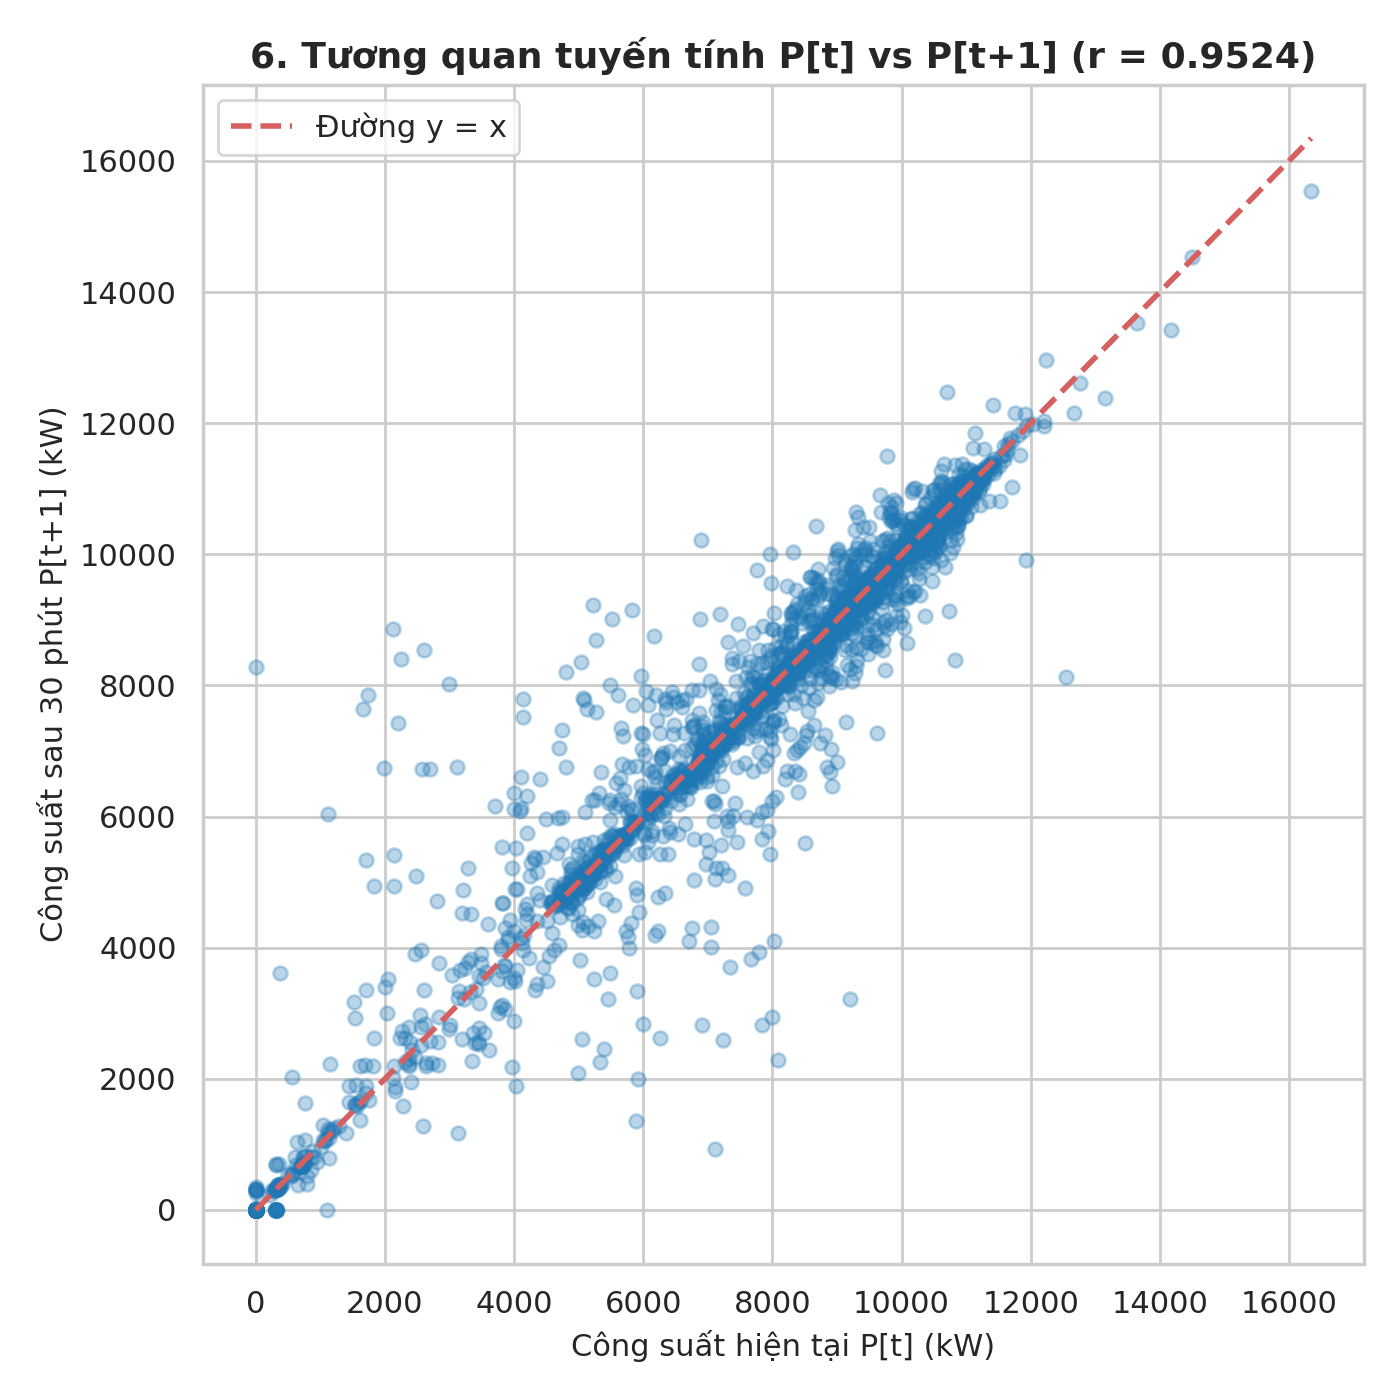
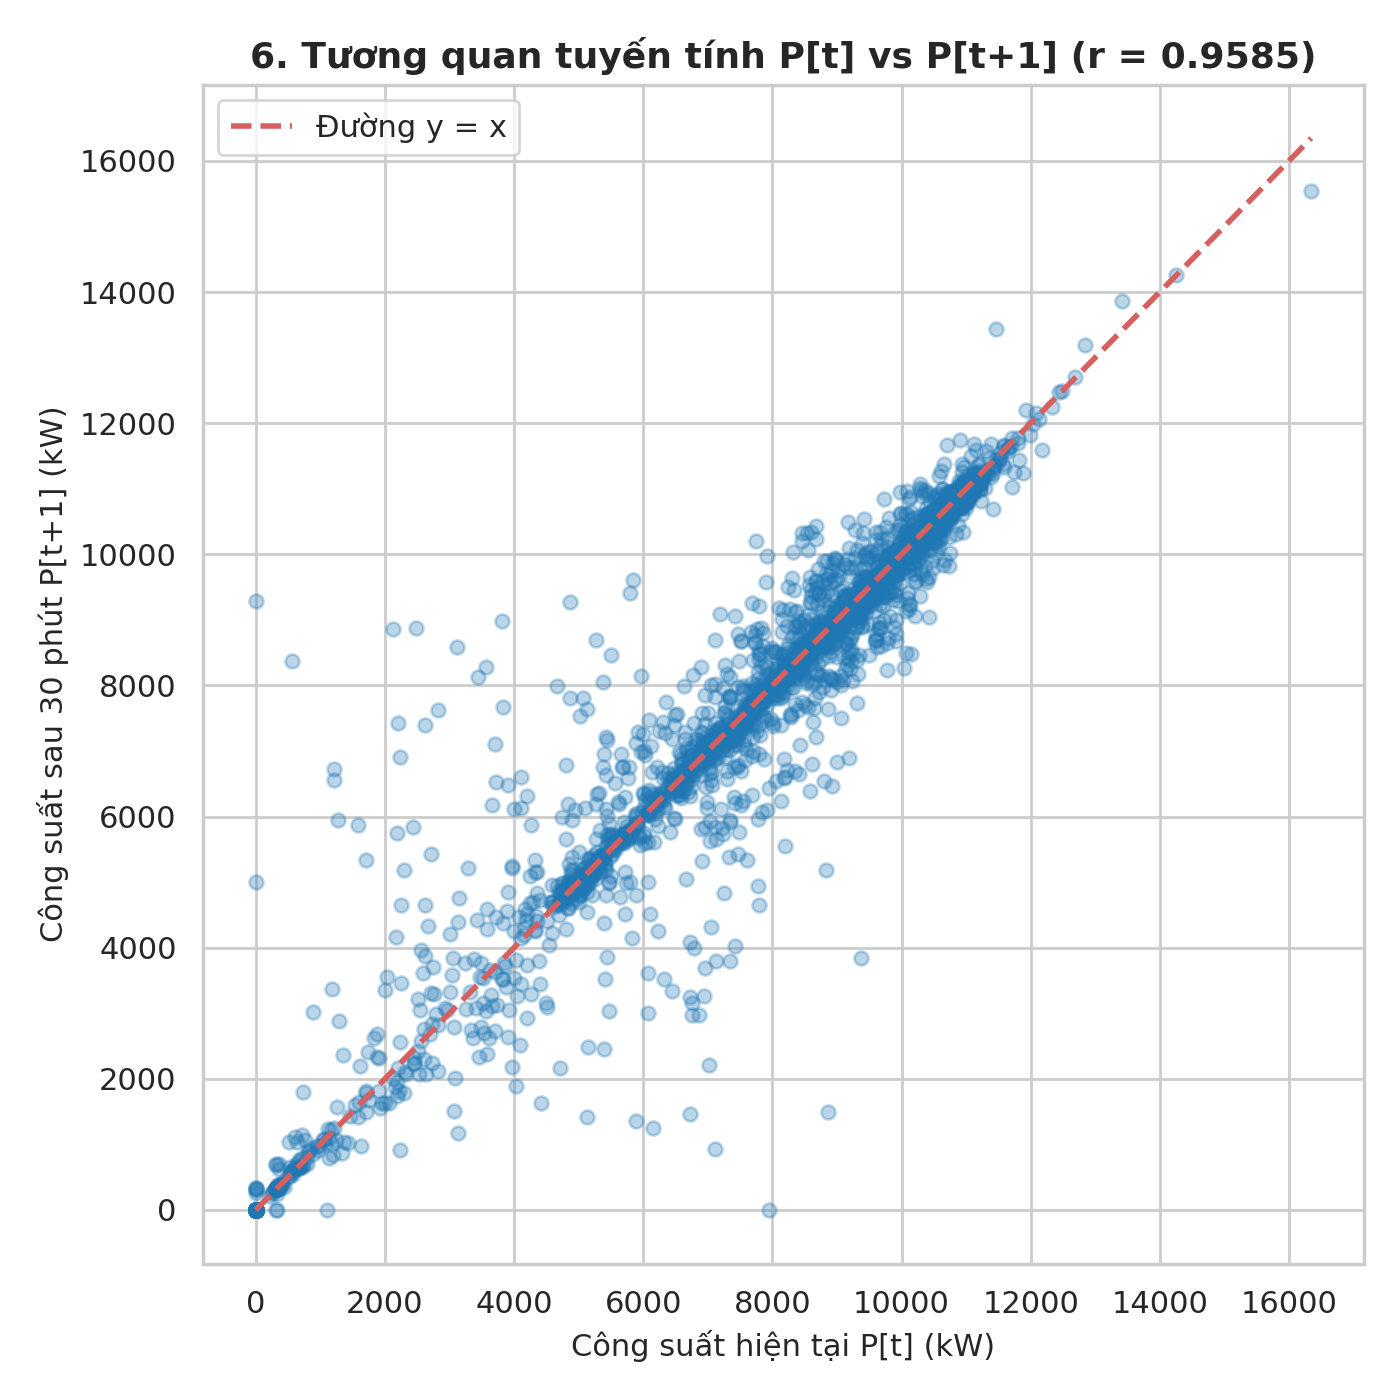
feat: Integrate safe outlier flagging, update pipeline and re-evaluate baseline models

diff --git a/code/power_load_preprocessing_pipeline.py b/code/power_load_preprocessing_pipeline.py
@@ -43,7 +43,11 @@ plt.rcParams['axes.unicode_minus'] = False
 plt.rcParams['figure.titlesize'] = 14
 plt.rcParams['axes.labelsize'] = 11
 
-NUMERIC_COLS = ["UA", "UB", "UC", "IA", "IB", "IC", "CosF", "P_kW", "Q_kVAr", "P_MW", "Q_MVAr"]
+NUMERIC_COLS = [
+    "UA", "UB", "UC", "IA", "IB", "IC", "CosF",
+    "P_kW", "Q_kVAr", "P_MW", "Q_MVAr",
+    "P_MW_raw", "P_kW_raw", "Q_MVAr_raw", "Q_kVAr_raw"
+]
 MIN_VALID_DATE = pd.to_datetime("2020-01-01 00:00:00")
 MAX_VALID_DATE = pd.to_datetime("2025-08-31 23:59:59")
 
@@ -133,15 +137,30 @@ def load_and_standardize_single_file(file_path: Path) -> pd.DataFrame:
         if c in df.columns:
             df[c] = clean_single_numeric_series(df[c])
 
-    # CHUẨN HÓA ĐƠN VỊ VẬT LÝ CHÍNH XÁC:
-    # Giá trị trong cột gốc 'P_kW' thực chất là Megawatt (MW) (ví dụ: 9.3408 MW ~ 9,340.8 kW).
-    # Giá trị trong cột gốc 'Q_kVAr' thực chất là MVAr (ví dụ: 1.156 MVAr ~ 1,156.0 kVAr).
-    # Chuẩn hóa tạo cả 2 biến để báo cáo và mô hình không bị nhầm lẫn bậc độ lớn:
+    # CHUẨN HÓA ĐƠN VỊ VẬT LÝ VÀ PHÂN ĐỊNH NGOẠI LAI (PHYSICAL CONTROL):
+    # - Lưu trữ nguyên bản giá trị thô: P_MW_raw, P_kW_raw
+    # - Đánh dấu P_outlier = 1 nếu công suất vượt ngưỡng kiểm soát dữ liệu (20 MW)
+    #   hoặc không tương thích với điện áp và dòng điện đo được đồng thời
+    # - Giá trị bất thường chuyển sang NaN để xử lý bằng nội suy có kiểm soát (<= 2 bước).
     if "P_kW" in df.columns:
-        df["P_MW"] = df["P_kW"].copy()
+        df["P_MW_raw"] = df["P_kW"].copy()
+        df["P_kW_raw"] = df["P_MW_raw"] * 1000.0
+
+        # Kiểm tra ngưỡng kiểm soát dữ liệu 20 MW (trung bình lộ chỉ 8 MW, trần tải dòng <= 12 MW)
+        is_outlier = df["P_MW_raw"] > 20.0
+        df["P_outlier"] = is_outlier.astype(int)
+
+        # Chuyển P_MW và P_kW của bản ghi ngoại lai thành NaN để nội suy an toàn (hoặc loại bỏ nếu kéo dài)
+        df["P_MW"] = df["P_MW_raw"].where(~is_outlier, np.nan)
         df["P_kW"] = df["P_MW"] * 1000.0
+    else:
+        df["P_outlier"] = 0
+
     if "Q_kVAr" in df.columns:
-        df["Q_MVAr"] = df["Q_kVAr"].copy()
+        df["Q_MVAr_raw"] = df["Q_kVAr"].copy()
+        df["Q_kVAr_raw"] = df["Q_MVAr_raw"] * 1000.0
+        # Nếu P bị đánh dấu ngoại lai, Q cũng chuyển sang NaN
+        df["Q_MVAr"] = df["Q_MVAr_raw"].where(~df["P_outlier"].astype(bool), np.nan)
         df["Q_kVAr"] = df["Q_MVAr"] * 1000.0
 
     if "MaDiemDo" in df.columns:
@@ -226,6 +245,8 @@ def build_regular_30m_grid(df_raw: pd.DataFrame) -> pd.DataFrame:
 
         # Đánh dấu dữ liệu thiếu trên lưới trước khi can thiệp
         group_reindexed["was_raw_missing"] = group_reindexed["P_kW"].isna().astype(int)
+        if "P_outlier" in group_reindexed.columns:
+            group_reindexed["P_outlier"] = group_reindexed["P_outlier"].fillna(0).astype(int)
         grid_list.append(group_reindexed.reset_index())
 
     df_grid = pd.concat(grid_list, ignore_index=True)
@@ -382,16 +403,19 @@ def generate_station_summary(df_raw: pd.DataFrame, df_grid: pd.DataFrame, df_cle
         clean_missing_pct = (clean_missing / total_slots) * 100
 
         imputed_count = int(clean_sub["is_imputed"].sum())
+        outlier_count = int(clean_sub["P_outlier"].sum()) if "P_outlier" in clean_sub.columns else 0
         p_mean_kw = clean_sub["P_kW"].mean()
         p_max_kw = clean_sub["P_kW"].max()
         p_mean_mw = clean_sub["P_MW"].mean() if "P_MW" in clean_sub.columns else (p_mean_kw / 1000.0 if pd.notna(p_mean_kw) else None)
         p_max_mw = clean_sub["P_MW"].max() if "P_MW" in clean_sub.columns else (p_max_kw / 1000.0 if pd.notna(p_max_kw) else None)
+        p_raw_max_mw = raw_sub["P_MW_raw"].max() if "P_MW_raw" in raw_sub.columns else (raw_sub["P_kW"].max() if "P_kW" in raw_sub.columns else None)
 
         summary.append({
             "MaDiemDo": pid,
             "TenDiemDo": name,
             "raw_recorded_rows": raw_rows,
             "raw_null_pct": round(float(raw_null_pct), 2),
+            "outliers_flagged_count": outlier_count,
             "total_30m_grid_slots": total_slots,
             "grid_missing_pct": round(float(grid_missing_pct), 2),
             "imputed_steps_count": imputed_count,
@@ -399,7 +423,8 @@ def generate_station_summary(df_raw: pd.DataFrame, df_grid: pd.DataFrame, df_cle
             "P_mean_kW": round(float(p_mean_kw), 1) if pd.notna(p_mean_kw) else None,
             "P_max_kW": round(float(p_max_kw), 1) if pd.notna(p_max_kw) else None,
             "P_mean_MW": round(float(p_mean_mw), 3) if pd.notna(p_mean_mw) else None,
-            "P_max_MW": round(float(p_max_mw), 3) if pd.notna(p_max_mw) else None
+            "P_max_MW": round(float(p_max_mw), 3) if pd.notna(p_max_mw) else None,
+            "P_raw_max_MW": round(float(p_raw_max_mw), 3) if pd.notna(p_raw_max_mw) else None
         })
 
     df_summary = pd.DataFrame(summary).sort_values(by="P_mean_kW", ascending=False).reset_index(drop=True)
